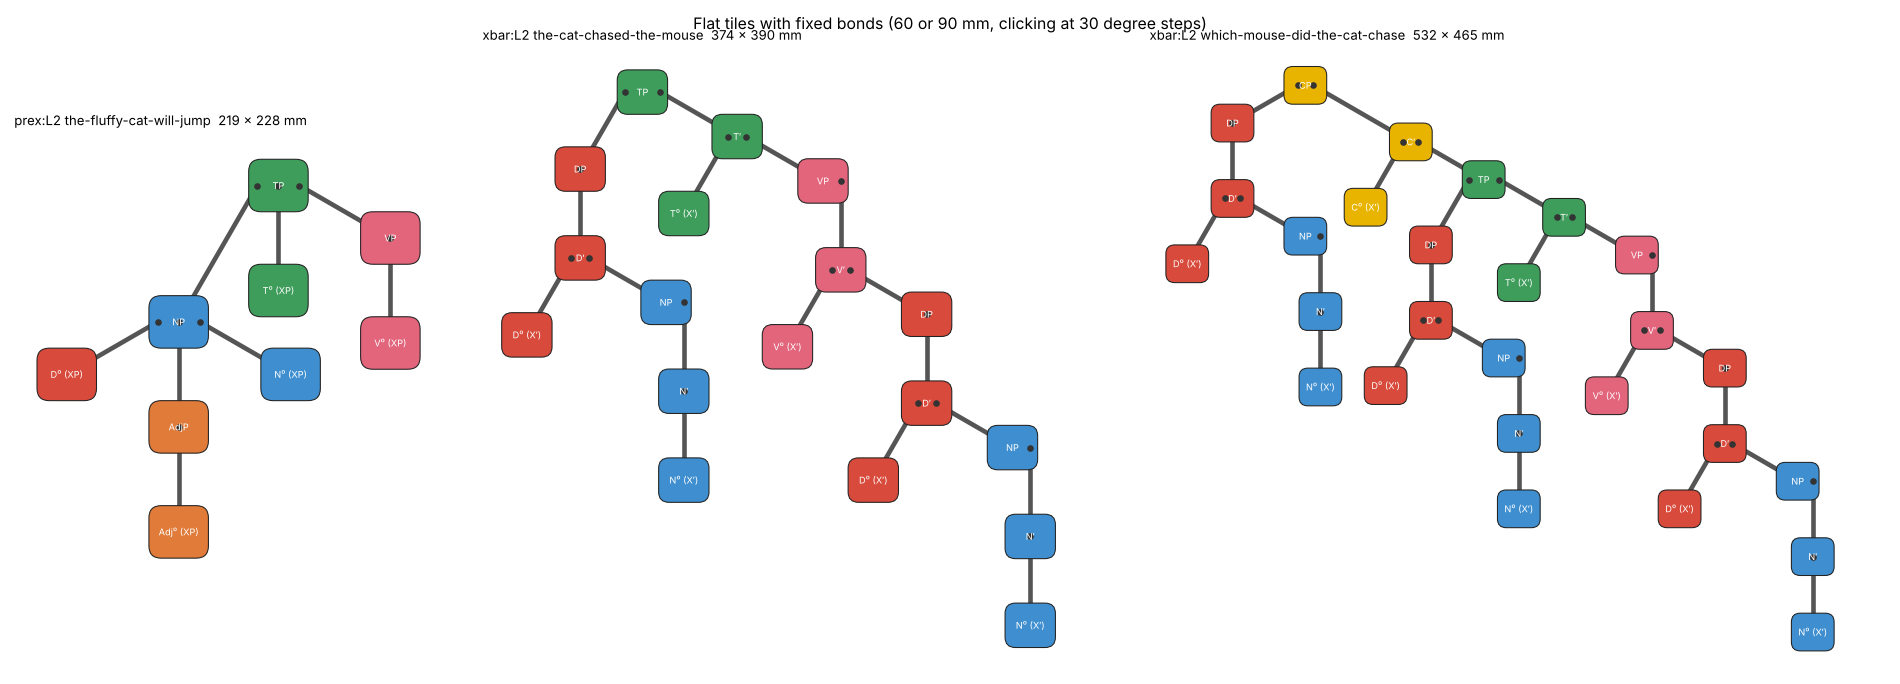
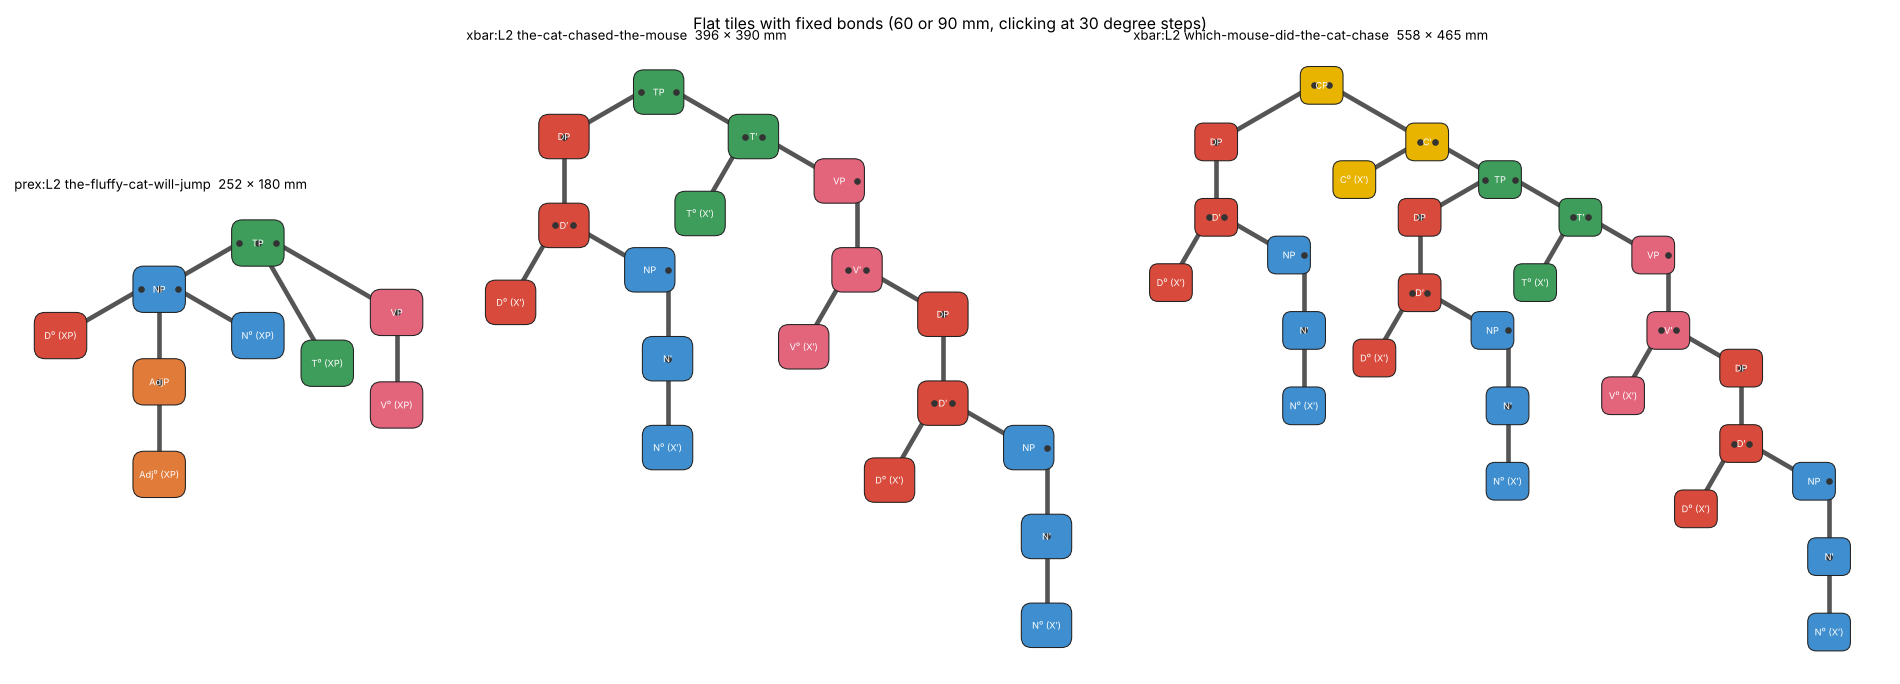
Concept pictures for the whiteboard kit; flat layout now keeps sentence order left to right
Claude-Session: https://claude.ai/code/session_01C5pFf2DCLiNAeSD1knXcto

diff --git a/physical/concept.py b/physical/concept.py
@@ -1,0 +1,201 @@
+#!/usr/bin/env python3
+"""
+Concept pictures for the whiteboard kit: small thin shape tiles with a magnet in the back, ball-and-cup sticks, tiny word tiles.
+
+1. out/concept_board.png  an illustration of a tree on a whiteboard (tile positions come from flat_layout.py's layout test;
+                          sticks are drawn port to port, not re-verified)
+2. out/concept_joint.png  a close-up from real meshes: tiles with cups, a stick with ball ends, a word tile
+
+Run from the repo root:  python3 physical/concept.py
+"""
+import math, os, sys
+import numpy as np
+import trimesh
+from trimesh.creation import extrude_polygon, icosphere, box as tbox, cylinder
+from trimesh.boolean import union, difference
+from shapely.geometry import Polygon, Point, box as sbox
+from shapely.affinity import scale as sscale
+import matplotlib; matplotlib.use('Agg')
+import matplotlib.pyplot as plt
+from matplotlib.patches import FancyBboxPatch, Polygon as MPoly, Circle
+
+HERE = os.path.dirname(os.path.abspath(__file__))
+sys.path.insert(0, HERE)
+import spokes as sp
+import flat_layout as F
+import arm_options as O
+import hinge as H
+
+OUT = os.path.join(HERE, 'out')
+SIZE = {'phrase': 15.0, 'bar': 12.0, 'head-x': 9.0, 'head-xp': 9.0}       # tile half-size (mm): phrase 30, bar 24, head 18
+THICK = 6.0
+BALL_R, CUP_R = 2.5, 2.7
+STICK_W, STICK_T = 4.0, 3.0
+
+
+def shape_poly(shape, r):
+    def ngon(n, rad, oy=0):
+        return [(rad * math.cos(math.radians(-90 + 360 / n * i)), oy + rad * math.sin(math.radians(-90 + 360 / n * i))) for i in range(n)]
+    if shape == 'circle': return Point(0, 0).buffer(r, 48)
+    if shape == 'square': return sbox(-r, -r, r, r).buffer(r * .12, 8)
+    if shape == 'rectangle': return sbox(-r * 1.35, -r * .78, r * 1.35, r * .78).buffer(r * .1, 8)
+    if shape == 'triangle': return Polygon(ngon(3, r * 1.15, r * .08)).buffer(r * .06, 8)
+    if shape == 'pentagon': return Polygon(ngon(5, r * 1.12, r * .06)).buffer(r * .05, 8)
+    if shape == 'diamond': return Polygon(ngon(4, r * 1.2)).buffer(r * .05, 8)
+    if shape == 'star':
+        return Polygon([((r * 1.15 if i % 2 == 0 else r * .5) * math.cos(math.radians(-90 + 36 * i)), (r * 1.15 if i % 2 == 0 else r * .5) * math.sin(math.radians(-90 + 36 * i))) for i in range(10)]).buffer(r * .04, 6)
+    if shape == 'heart': return Polygon([(x * r, y * r) for x, y in sp.heart_pts()]).buffer(0)
+    raise ValueError(shape)
+
+
+def node_info(t, cats):
+    letter, level, star = sp.split_type(t)
+    kind = sp.kind(t)
+    return cats[letter]['shape'], cats[letter]['color'], SIZE[kind], kind
+
+
+def label(t):
+    return sp.label(t).replace(' (XP)', '').replace(' (X′)', '')
+
+
+def ports(poly, n_slots):
+    """top port and bottom ports (x, y), y down, relative to the tile centre."""
+    minx, miny, maxx, maxy = poly.bounds
+    w = maxx - minx
+    top = (0.0, miny + 3.2)
+    pitch = min(9.0, w * 0.3)
+    bots = [((s - (n_slots - 1) / 2) * pitch, maxy - 3.2) for s in range(n_slots)]
+    return top, bots
+
+
+# ------------------------------------------------------------------ 1. the board
+def board(path):
+    cats, modes = sp.load()
+    uniq = dict(O.unique_trees())
+    name = 'prex:L2 the-fluffy-cat-will-jump'
+    words = ['the', 'fluffy', 'cat', 'will', 'jump']
+    tree = uniq[name]
+    # rebuild the layout and read off the tree structure alongside it
+    lay = F.Layout(tree, (60.0, 90.0))
+    # tiles come out in depth-first order: the same order as walking the tree
+    order = []
+    def walk(n, parent):
+        order.append((n['t'], parent)); idx = len(order) - 1
+        for c in n['c']: walk(c, idx)
+    walk(tree, -1)
+    pos = {i: (x, y) for i, (t, x, y) in enumerate(lay.tiles)}
+    fig, ax = plt.subplots(figsize=(11, 8), facecolor='white')
+    ax.add_patch(FancyBboxPatch((-600, -600), 1200, 1500, boxstyle='round,pad=0,rounding_size=10', fc='#f7f8f6', ec='none', lw=0, zorder=0))
+    polys = {}
+    nslots = {}
+    for i, (t, p) in enumerate(order):
+        shape, col, r, kind = node_info(t, cats)
+        polys[i] = shape_poly(shape, r)
+        nslots[i] = len(sp.PORTS.get(t, {}))
+    # sticks first (under the tiles' cups)
+    kids_of = {}
+    for i, (t, p) in enumerate(order):
+        if p >= 0: kids_of.setdefault(p, []).append(i)
+    stick_ends = []
+    for p, kids in kids_of.items():
+        t = order[p][0]
+        slots, _ = __import__('arms').slot_assignment(t, [order[k][0] for k in kids])
+        n = nslots[p]
+        px, py = pos[p]
+        _, bots = ports(polys[p], max(n, 1))
+        for k, s in zip(kids, slots):
+            bx, by = bots[s]
+            top, _ = ports(polys[k], max(nslots[k], 1))
+            a = (px + bx, py + by); b = (pos[k][0] + top[0], pos[k][1] + top[1])
+            stick_ends.append((a, b))
+    for a, b in stick_ends:
+        ax.plot([a[0], b[0]], [a[1], b[1]], color='#4b5563', lw=4.2, solid_capstyle='butt', zorder=1)
+        for q in (a, b):
+            ax.add_patch(Circle(q, 3.0, fc='#c7ccd3', ec='#4b5563', lw=1.0, zorder=3))
+            ax.add_patch(Circle((q[0] - .9, q[1] - .9), 0.9, fc='white', ec='none', zorder=4, alpha=.8))
+    for i, (t, p) in enumerate(order):
+        shape, col, r, kind = node_info(t, cats)
+        x, y = pos[i]
+        pts = np.array(polys[i].exterior.coords) + np.array([x, y])
+        ax.add_patch(MPoly(pts, closed=True, fc=col, ec='#1f2937', lw=1.1, zorder=2, joinstyle='round'))
+        ax.text(x, y + (2.5 if shape in ('triangle',) else 0), label(t), ha='center', va='center', fontsize=7.5 if r < 12 else 9, color='white', fontweight='bold', zorder=5)
+    # word tiles under the heads (the leaves, left to right)
+    leaves = [i for i, (t, p) in enumerate(order) if not kids_of.get(i)]       # depth-first order is sentence order
+    for w, i in zip(words, leaves):
+        x, y = pos[i]
+        ax.add_patch(FancyBboxPatch((x - 13, y + 14), 26, 10, boxstyle='round,pad=0,rounding_size=1.5', fc='#f4ecd8', ec='#8a8372', lw=0.9, zorder=2))   # a poetry magnet
+        ax.text(x, y + 19.2, w, ha='center', va='center', fontsize=8.5, color='#111827', zorder=5, family='serif')
+    ax.set_title('On a steel whiteboard: every tile and word magnet has a magnet in its back; sticks are ball-and-cup joints', fontsize=10, loc='left', color='#374151')
+    xs = [p[0] for p in pos.values()]; ys = [p[1] for p in pos.values()]
+    ax.set_xlim(min(xs) - 60, max(xs) + 60); ax.set_ylim(max(ys) + 75, min(ys) - 50); ax.set_aspect('equal'); ax.axis('off')
+    fig.tight_layout(); fig.savefig(path, dpi=110, facecolor=fig.get_facecolor()); plt.close(fig)
+
+
+# ------------------------------------------------------------------ 2. the joint
+def tile_mesh(shape, r, n_bottom, color=None):
+    poly = shape_poly(shape, r)
+    m = extrude_polygon(poly, THICK, engine='earcut')
+    m = H.fix(m)
+    top, bots = ports(poly, n_bottom)
+    cuts = []
+    for (px, py) in [top] + bots:
+        s = icosphere(subdivisions=3, radius=CUP_R)
+        s.apply_translation([px, py, THICK + 0.9])          # a shallow cup (1.8 mm deep) in the front face, near the edge
+        cuts.append(s)
+    # a magnet pocket in the back
+    pocket = trimesh.creation.cylinder(radius=4.1, height=2.2, sections=40); pocket.apply_translation([0, 0, 0.6])
+    cuts.append(pocket)
+    return H.fix(difference([m] + cuts, engine='manifold')), top, bots
+
+
+def stick_mesh(L):
+    bar = tbox(extents=[L, STICK_W, STICK_T]); bar.apply_translation([L / 2, 0, STICK_T / 2])
+    balls = []
+    for x in (0.0, L):
+        s = icosphere(subdivisions=3, radius=BALL_R); s.apply_translation([x, 0, STICK_T / 2 - 0.6]); balls.append(s)
+    return H.fix(union([bar] + balls, engine='manifold'))
+
+
+def word_tile(w=26.0, h=10.0):
+    return H.fix(tbox(extents=[w, h, 2.4]))
+
+
+def joint(path):
+    import assemble as AS
+    cats, modes = sp.load()
+    meshes, cols = [], []
+    def add(m, col):
+        meshes.append(m); cols.append(np.tile(np.asarray(col, float), (len(m.faces), 1)))
+    hexrgb = lambda hx: np.array([int(hx[i:i + 2], 16) for i in (1, 3, 5)], float) / 255
+    par, ptop, pbots = tile_mesh('square', 15, 3)             # a TP
+    chi, ctop, cbots = tile_mesh('triangle', 12, 2)           # an NP
+    px, py = 0.0, 0.0
+    a = (px + pbots[1][0], py + pbots[1][1])                  # the parent's middle bottom cup
+    L = 30.0
+    cx = a[0] - ctop[0]; cy = a[1] + L - ctop[1]
+    def place(m, x, y):
+        mm = m.copy(); mm.apply_translation([x, y, 0]); return mm
+    add(place(par, px, py), hexrgb(cats['T']['color']))
+    add(place(chi, cx, cy), hexrgb(cats['N']['color']))
+    def stick_between(p, q, z):
+        d = np.array(q) - np.array(p); Ls = float(np.linalg.norm(d)); ang = math.atan2(d[1], d[0])
+        st = stick_mesh(Ls); st.apply_transform(H.rot_z(math.degrees(ang))); st.apply_translation([p[0], p[1], z]); return st
+    add(stick_between(a, (cx + ctop[0], cy + ctop[1]), THICK + 0.15), hexrgb('#aeb6c0'))
+    # a loose stick lying beside it, with its ball ends showing, and a word magnet
+    add(stick_between((34.0, -8.0), (34.0, 52.0), 0.15), hexrgb('#aeb6c0'))
+    wt = word_tile(26.0, 10.0); wt.apply_translation([-22.0, cy + 26.0, 1.2]); add(wt, hexrgb('#f4ecd8'))
+    mesh = trimesh.util.concatenate(meshes); fc = np.vstack(cols)
+    v = mesh.copy(); v.apply_scale([1, 1, -1]); v.invert()   # the front face (with the cups) toward the viewer; the board is behind
+    v.apply_transform(H.rot_x(-90))                         # y down -> z down
+    fig, axes = plt.subplots(1, 2, figsize=(15, 7.2), facecolor='white')
+    axes[0].imshow(AS.render_color(v, fc, 900, 800, elev=3, azim=-90, zoom=0.96)); axes[0].axis('off'); axes[0].set_title('from the front (the whiteboard is behind)', loc='left')
+    axes[1].imshow(AS.render_color(v, fc, 900, 800, elev=30, azim=-125, zoom=0.96)); axes[1].axis('off'); axes[1].set_title('from the side and above (the board is the far side)', loc='left')
+    fig.suptitle('Two tiles (6 mm thick, magnet pocket in the back) joined by a stick with ball ends into cups; a loose stick; a poetry-style word magnet', fontsize=11)
+    fig.tight_layout(); fig.savefig(path, dpi=100); plt.close(fig)
+
+
+if __name__ == '__main__':
+    board(os.path.join(OUT, 'concept_board.png'))
+    print('board done')
+    joint(os.path.join(OUT, 'concept_joint.png'))
+    print('joint done')

diff --git a/physical/flat_layout.py b/physical/flat_layout.py
@@ -79,13 +79,17 @@ def layout(node, lengths, angles, top_k=14, park=False):
             bg = bond_geom(pivot, off)
             if bg.intersects(translate(sub['clear'], off[0], off[1]).buffer(-GAP / 2 - 0.5)) and False: pass
             if chosen and off[0] <= chosen[-1][0][0] + 1.0: continue            # siblings read left to right
+            if chosen:                                                         # ...and so do their subtrees: every tile of this one is right of every tile of the last
+                prev = chosen[-1]
+                prev_max = max(x for t_, x, y in prev[5]); my_min = min(x + off[0] for t_, x, y in sub['tiles'])
+                if my_min <= prev_max + 1.0: continue
             bad = False
-            for (o2, p2, cl2, bg2, sh2) in chosen:
+            for (o2, p2, cl2, bg2, sh2, tl2) in chosen:
                 if cl.intersects(cl2) or bg.intersects(cl2) or bg2.intersects(cl): bad = True; break
             if bad: continue
             if bg.intersects(tgeom) and False: continue
             # the bond may not touch the other tiles inside its own child's subtree except the child's own tile
-            chosen.append((off, pivot, cl, bg, translate(sub['shape'], off[0], off[1])))
+            chosen.append((off, pivot, cl, bg, translate(sub['shape'], off[0], off[1]), [(t_, x + off[0], y + off[1]) for t_, x, y in sub['tiles']]))
             dfs(i + 1, chosen, cost + c)
             chosen.pop()
             tried += 1
@@ -112,7 +116,7 @@ def layout(node, lengths, angles, top_k=14, park=False):
     tiles, bonds, shapes, clears = [tile], [], [tgeom], [tgeom.buffer(GAP / 2)]
     for pivot, end, sh, cl in extra:
         bonds.append((pivot, end)); shapes.append(sh); clears.append(cl)
-    for (off, pivot, cl, bg, sh), sub in zip(best[0][1], subs):
+    for (off, pivot, cl, bg, sh, tl), sub in zip(best[0][1], subs):
         tiles += [(t, x + off[0], y + off[1]) for t, x, y in sub['tiles']]
         bonds += [(pivot, off)] + [((a[0] + off[0], a[1] + off[1]), (b[0] + off[0], b[1] + off[1])) for a, b in sub['bonds']]
         shapes += [sh, bg]; clears += [cl, bg]

diff --git a/physical/README.md b/physical/README.md
@@ -37,6 +37,7 @@ pieces, so a head can't skip the bar level in X′ mode.
 | `BODY.md` | Generated: body design, sizes and masses, checks, what is not settled. STLs in `body/`. |
 | `assemble.py` | Assembles a game tree from the real meshes (bodies, arm stacks at the layout's positions, inserts) and renders it: `out/assembled_*.png`. |
 | `flat_layout.py` | Tests the flat-tile idea (tiles on a table or whiteboard, fixed 60/90 mm bonds clicking at 30° steps): lays out all 10 trees and checks them independently. Output `out/flat_layouts.png`, `out/flat_layouts.json`. |
+| `concept.py` | Concept pictures for the whiteboard kit: a tree on a board (`out/concept_board.png`) and a close-up of tiles, ball-and-cup stick and a word magnet from real meshes (`out/concept_joint.png`). |
 | `out/spokes.json` | Spoke angles and key codes, for generating printable files later. |
 
 Regenerate after any change to the game's rules (needs `shapely`):
